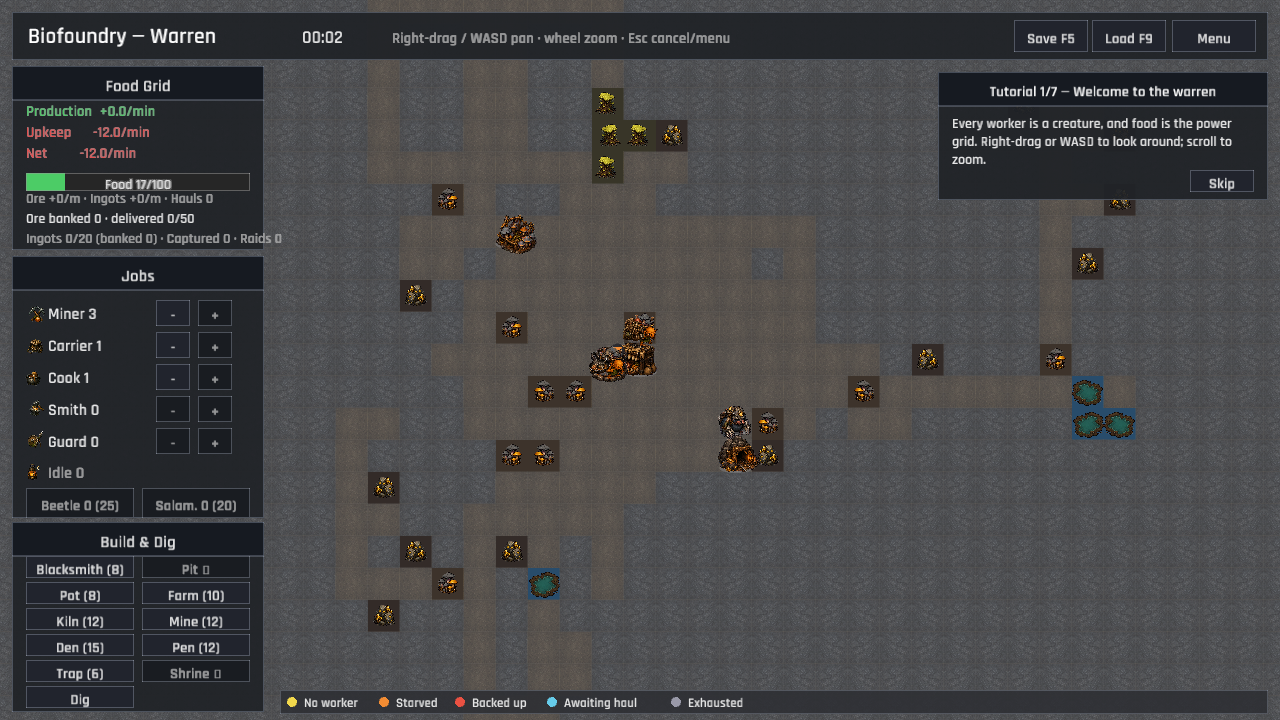
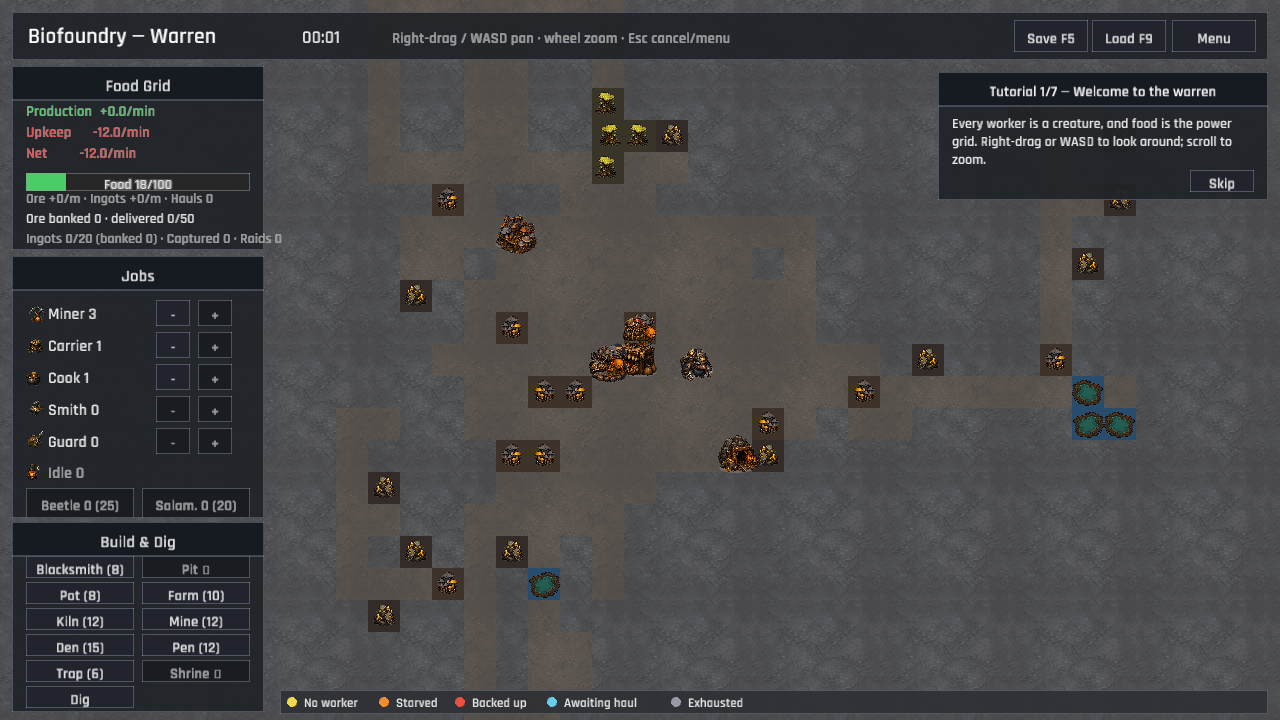
The warren floor runs as one unbroken stone beneath the colony (ground tile sampling and sprite layering)
The floor and rock atlas panels were being compressed into every logical tile, exposing square repeats and mirrored seams. Ground rendering now samples 128px patches by world position, and the authored ground cells no longer overdraw their neighbours. The repeatable ground source was also edge-balanced, while the existing alpha-backed decorative atlases continue to sit cleanly above the floor.\n\nVerified with cargo test, the warren capture, and .\\publish.ps1 for Windows and WebGL preview deployment.\n\nCo-Authored-By: GPT-5 <noreply@openai.com>

diff --git a/src/ui/warren/sprites.rs b/src/ui/warren/sprites.rs
@@ -77,28 +77,64 @@ pub fn draw_colossal_worm(sprites: &WorldSprites, center: Vec2, tick: u64, ts: f
 /// rectangles into cracked earth and irregular cave faces.
 pub fn draw_terrain_tile(sprites: &WorldSprites, tile: Tile, pos: TilePos, ts: f32) {
     let (frame, scale) = match tile {
-        Tile::Rock => (3, 1.02),
-        Tile::Floor => (0, 1.02),
+        // Ground cells are authored as repeatable textures. Keep them inside
+        // their logical tile so one cell cannot cover its neighbour's edge.
+        Tile::Rock => (3, 1.0),
+        Tile::Floor => (0, 1.0),
         Tile::Water => (2, 1.18),
         Tile::MushroomPatch => (3, 1.02),
         Tile::OreVein => (4, 1.04),
         Tile::Sporewood => (5, 1.06),
     };
     let center = vec2((pos.x as f32 + 0.5) * ts, (pos.y as f32 + 0.5) * ts);
-    let atlas = match tile {
-        Tile::Rock | Tile::Floor => &sprites.ground,
-        _ => &sprites.terrain,
+    let is_ground = matches!(tile, Tile::Rock | Tile::Floor);
+    let atlas = if is_ground {
+        &sprites.ground
+    } else {
+        &sprites.terrain
     };
     let tint = match tile {
         Tile::Rock | Tile::Floor => Color::new(1.0, 1.0, 1.0, 0.72),
         _ => WHITE,
     };
-    atlas.draw_frame(
-        frame,
-        center,
-        vec2(ts * scale, ts * scale),
-        (pos.x + pos.y).rem_euclid(2) == 0,
+    if is_ground {
+        draw_ground_patch(atlas, frame, pos, center, ts, tint);
+    } else {
+        let flip_x = (pos.x + pos.y).rem_euclid(2) == 0;
+        atlas.draw_frame(frame, center, vec2(ts * scale, ts * scale), flip_x, tint);
+    }
+}
+
+/// Sample a small, world-positioned patch from a ground cell. Sampling the
+/// full 512px panel for every logical tile made the panel's own edges visible
+/// as a grid; walking through the panel keeps adjacent floor tiles coherent.
+fn draw_ground_patch(
+    atlas: &SpriteAtlas,
+    frame: usize,
+    pos: TilePos,
+    center: Vec2,
+    ts: f32,
+    tint: Color,
+) {
+    const PATCH: f32 = 128.0;
+    let source = atlas.source_rect(frame);
+    let patch_x = pos.x.rem_euclid(4) as f32 * PATCH;
+    let patch_y = pos.y.rem_euclid(4) as f32 * PATCH;
+    draw_texture_ex(
+        &atlas.texture,
+        center.x - ts * 0.5,
+        center.y - ts * 0.5,
         tint,
+        DrawTextureParams {
+            dest_size: Some(vec2(ts, ts)),
+            source: Some(Rect::new(
+                source.x + patch_x,
+                source.y + patch_y,
+                PATCH,
+                PATCH,
+            )),
+            ..Default::default()
+        },
     );
 }
 
